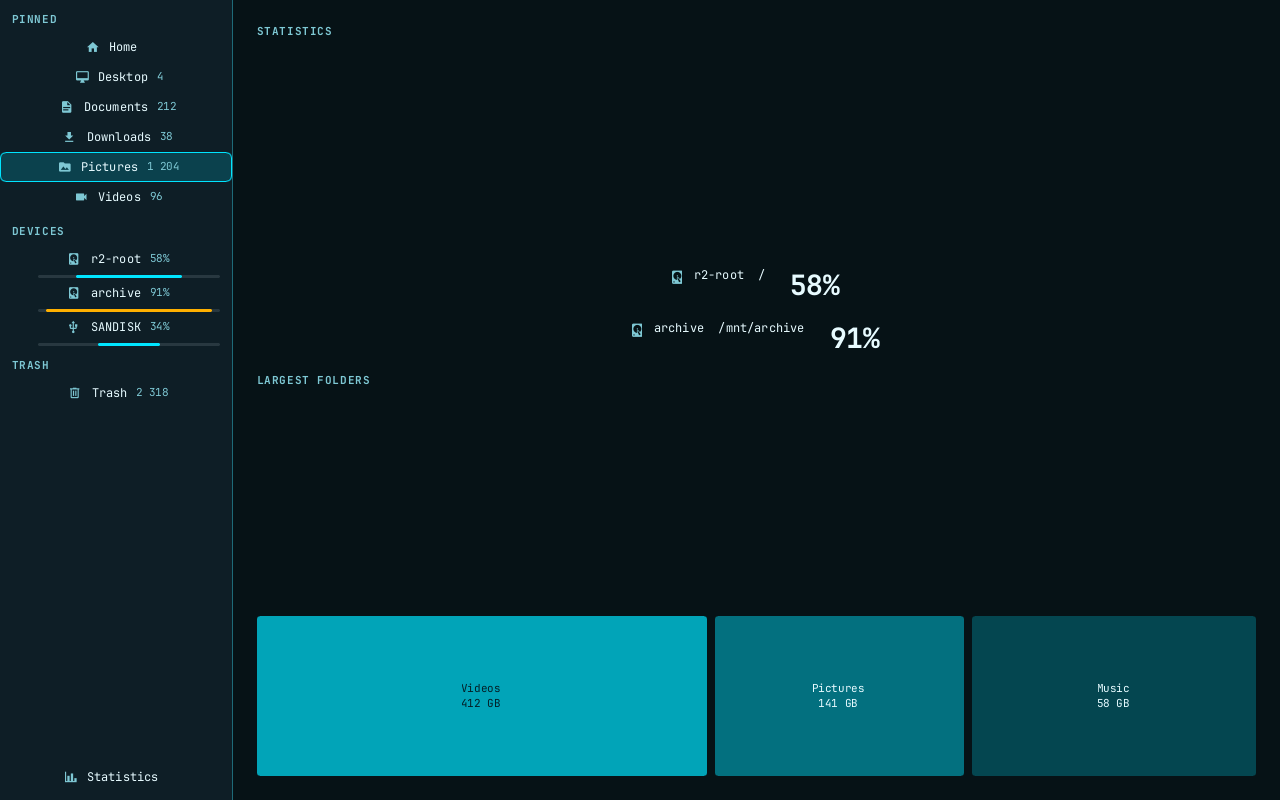
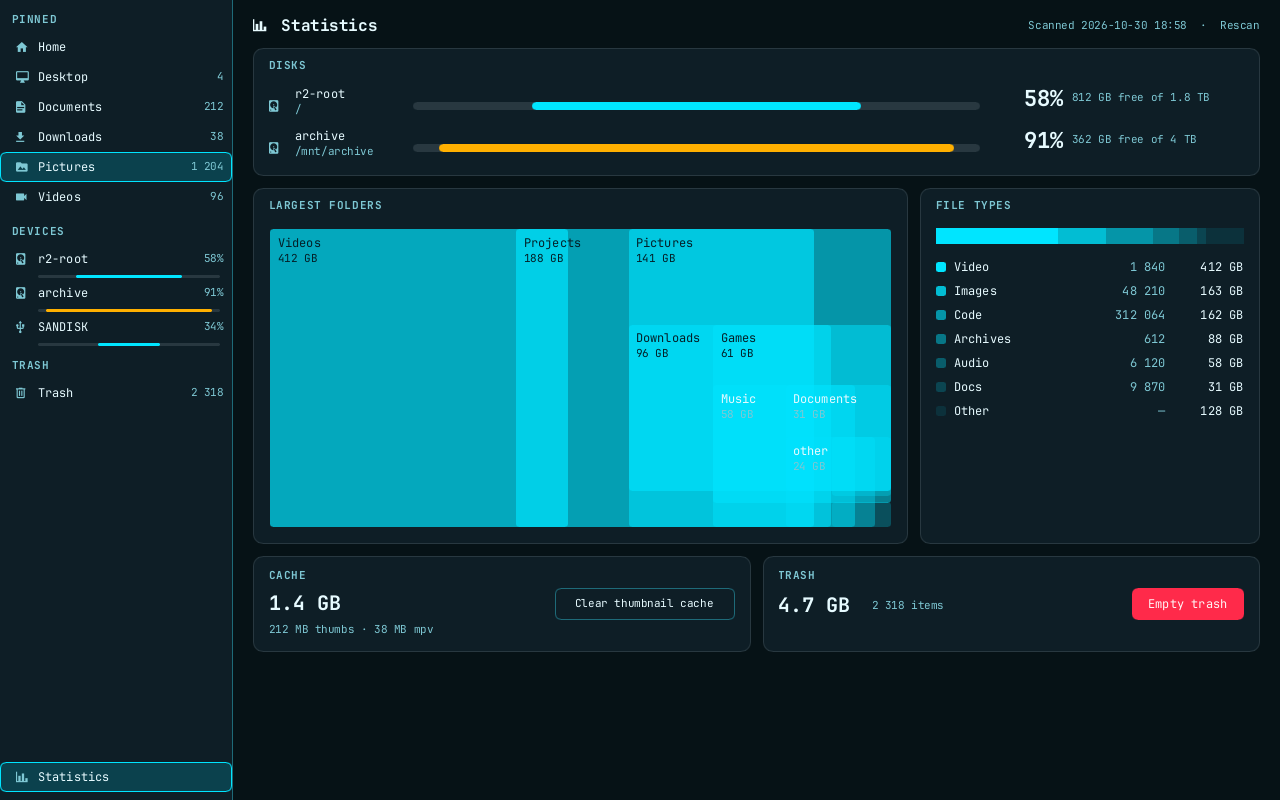
fix(stats): lay the overview out as separate cards
Disks, file types, cache, and trash each get a surface card. The folder
map is the squarified treemap, and the empty-trash confirm keeps its buttons.

diff --git a/src/shots.rs b/src/shots.rs
@@ -11,7 +11,7 @@ use slint::{ComponentHandle, ModelRc, VecModel};
 
 use crate::error::{Error, Result};
 use crate::theme::Theme;
-use crate::{AppWindow, GridLine, Place, Row};
+use crate::{AppWindow, GridLine, MapCell, Place, Row};
 
 pub fn known(view: &str) -> bool {
     matches!(
@@ -228,15 +228,63 @@ fn apply_scene(ui: &AppWindow, view: &str) {
         }
         .into(),
     );
-    ui.set_stats_mode(
-        match view {
-            "stats-overview" | "theme-black-stats" => "overview",
-            "stats-treemap-drilled" => "drilled",
-            "stats-empty-trash" => "empty-trash",
-            _ => "",
-        }
-        .into(),
-    );
+    let stats_mode = match view {
+        "stats-overview" | "theme-black-stats" => "overview",
+        "stats-treemap-drilled" => "drilled",
+        "stats-empty-trash" => "empty-trash",
+        _ => "",
+    };
+    ui.set_stats_mode(stats_mode.into());
+    if !stats_mode.is_empty() {
+        ui.set_map_cells(ModelRc::new(Rc::new(VecModel::from(stats_cells(
+            stats_mode == "drilled",
+        )))));
+    }
+}
+
+fn stats_cells(drilled: bool) -> Vec<MapCell> {
+    let weights: Vec<(String, u64)> = if drilled {
+        vec![
+            ("raw-exports".into(), 180),
+            ("tatooine-trip".into(), 140),
+            ("speeder-run.mp4".into(), 52),
+            ("cantina-band.heic".into(), 40),
+        ]
+    } else {
+        vec![
+            ("Videos".into(), 412),
+            ("Projects".into(), 188),
+            ("Pictures".into(), 141),
+            ("Downloads".into(), 96),
+            ("Games".into(), 61),
+            ("Music".into(), 58),
+            (".cache".into(), 22),
+            ("Documents".into(), 31),
+            ("Mail".into(), 9),
+            ("other".into(), 24),
+        ]
+    };
+    let mut ranked = weights.clone();
+    ranked.sort_by_key(|(_, bytes)| std::cmp::Reverse(*bytes));
+    let steps = ranked.len().saturating_sub(1).max(1) as f32;
+    let shade: std::collections::HashMap<String, f32> = ranked
+        .iter()
+        .enumerate()
+        .map(|(index, (name, _))| (name.clone(), 0.70 - (index as f32 / steps) * 0.45))
+        .collect();
+    let labels: std::collections::HashMap<_, _> = weights.iter().cloned().collect();
+    crate::stats::squarify(&weights, 623.0, 300.0)
+        .into_iter()
+        .map(|rect| MapCell {
+            x: rect.x,
+            y: rect.y,
+            w: rect.w,
+            h: rect.h,
+            name: rect.name.clone().into(),
+            detail: format!("{} GB", labels[&rect.name]).into(),
+            shade: shade[&rect.name],
+        })
+        .collect()
 }
 
 fn places(view: &str) -> Vec<Place> {
